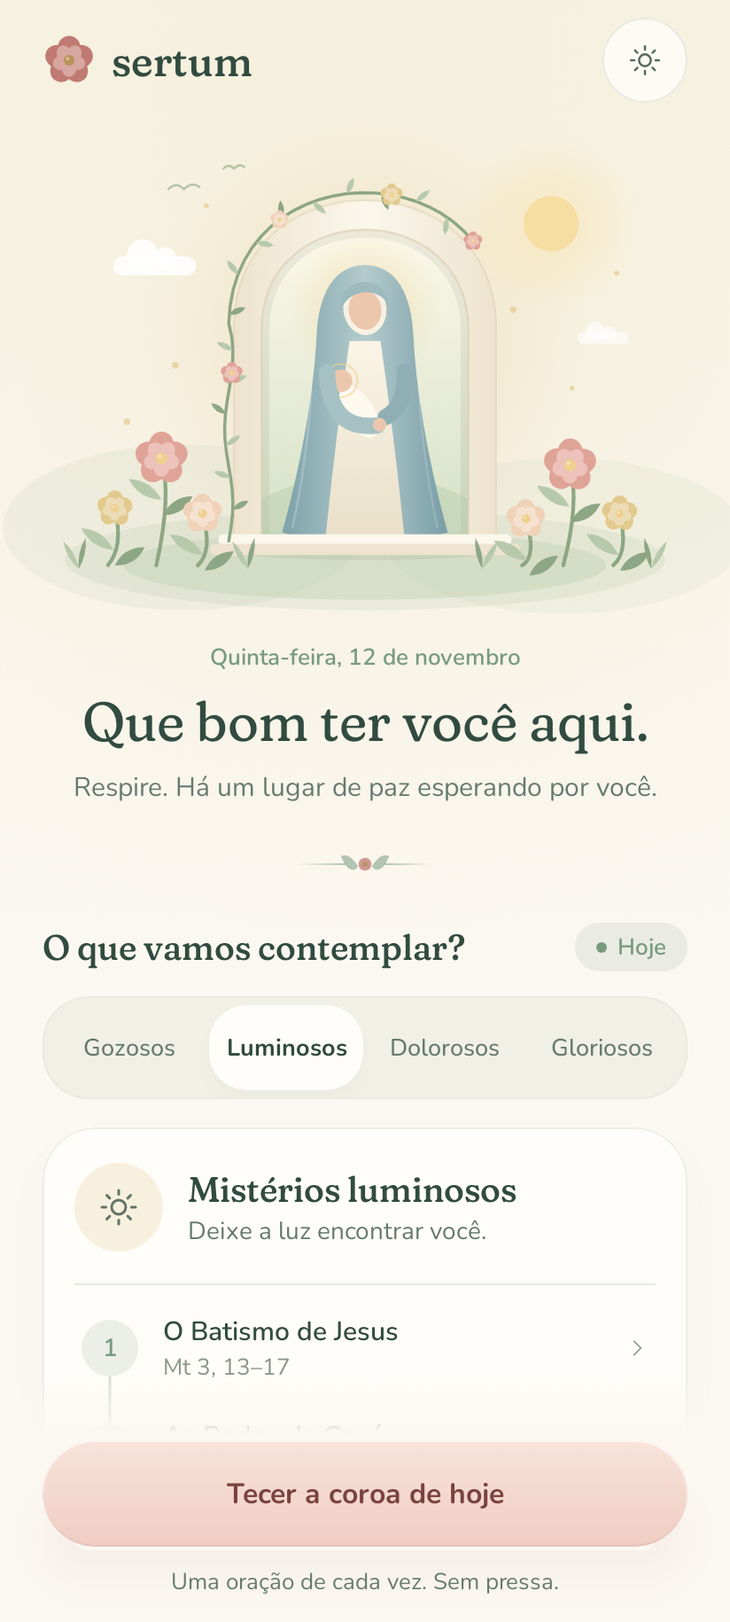
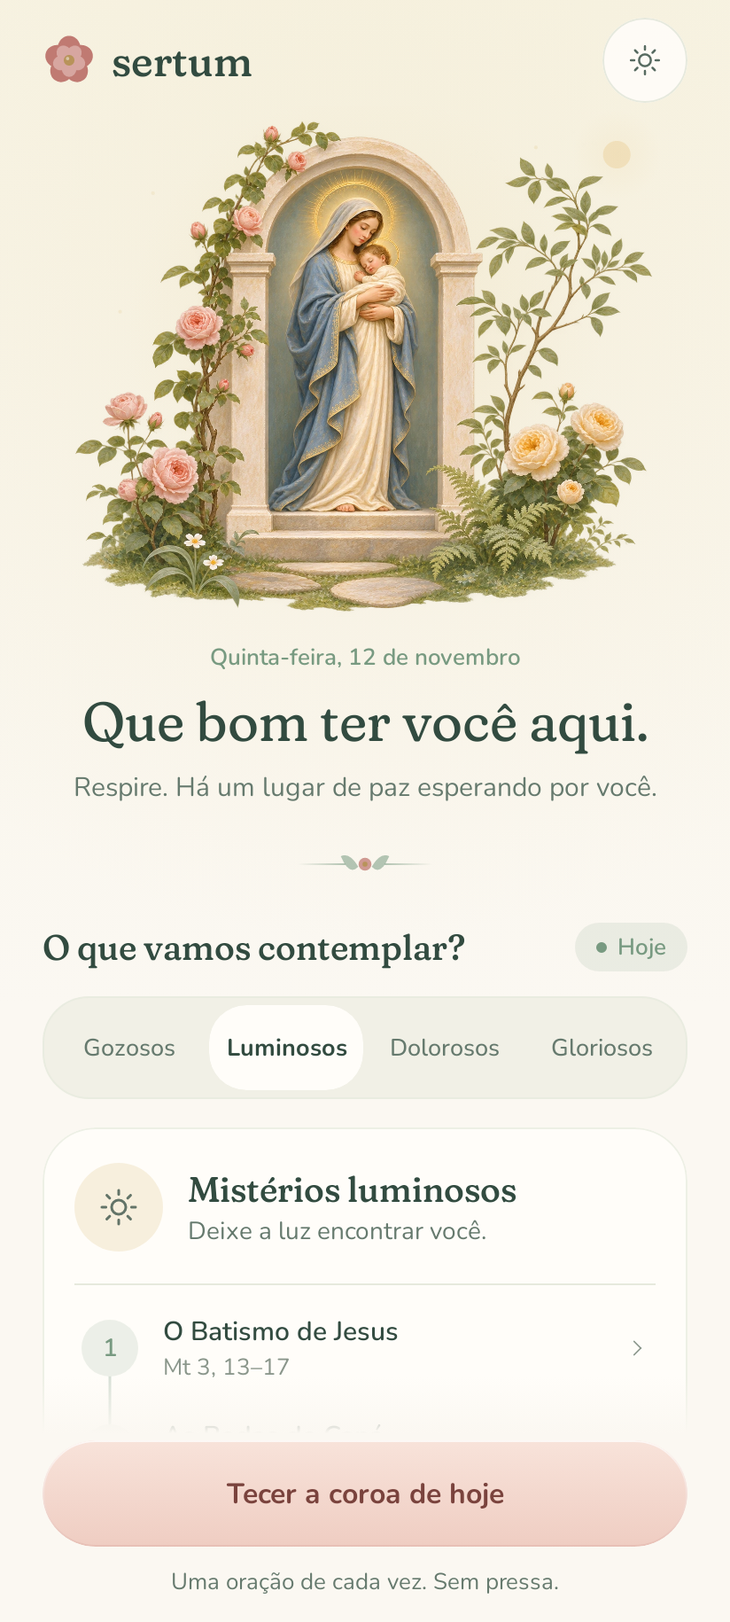
Replace sanctuary garden with classical Marian paintings

Changed region(s): [[0.091, 0.0623, 0.9102, 0.3738]]

diff --git a/app/src/main/java/com/sertumrosarum/ui/canvas/SanctuaryGarden.kt b/app/src/main/java/com/sertumrosarum/ui/canvas/SanctuaryGarden.kt
@@ -7,12 +7,15 @@ import androidx.compose.animation.core.infiniteRepeatable
 import androidx.compose.animation.core.rememberInfiniteTransition
 import androidx.compose.animation.core.tween
 import androidx.compose.foundation.Canvas
+import androidx.compose.foundation.Image
+import androidx.compose.foundation.layout.Box
+import androidx.compose.foundation.layout.fillMaxSize
+import androidx.compose.foundation.layout.padding
 import androidx.compose.runtime.Composable
 import androidx.compose.runtime.State
-import androidx.compose.runtime.remember
 import androidx.compose.runtime.mutableFloatStateOf
+import androidx.compose.runtime.remember
 import androidx.compose.ui.Modifier
-import androidx.compose.ui.geometry.CornerRadius
 import androidx.compose.ui.geometry.Offset
 import androidx.compose.ui.geometry.Rect
 import androidx.compose.ui.geometry.Size
@@ -20,22 +23,20 @@ import androidx.compose.ui.graphics.Brush
 import androidx.compose.ui.graphics.Color
 import androidx.compose.ui.graphics.Path
 import androidx.compose.ui.graphics.PathOperation
-import androidx.compose.ui.graphics.StrokeCap
 import androidx.compose.ui.graphics.drawscope.DrawScope
-import androidx.compose.ui.graphics.drawscope.Stroke
-import androidx.compose.ui.graphics.drawscope.clipPath
 import androidx.compose.ui.graphics.drawscope.rotate
 import androidx.compose.ui.graphics.drawscope.withTransform
 import androidx.compose.ui.graphics.lerp
+import androidx.compose.ui.layout.ContentScale
+import androidx.compose.ui.res.painterResource
+import androidx.compose.ui.unit.dp
+import com.sertumrosarum.R
 import com.sertumrosarum.ui.theme.SertumTheme
 import kotlin.math.PI
 import kotlin.math.min
 import kotlin.math.sin
 
-/**
- * A slow loop from 0 to 2π that drives every ambient movement in the garden.
- * It stays at rest when the person has turned animations off.
- */
+/** A shared slow loop, held still when system animations are disabled. */
 @Composable
 internal fun rememberGardenBreath(label: String, millis: Int = 9000): State<Float> {
     if (SertumTheme.reducedMotion) return remember { mutableFloatStateOf(0f) }
@@ -85,188 +86,70 @@ internal fun DrawScope.gardenLeaf(start: Offset, end: Offset, width: Float, colo
     }, color)
 }
 
-private fun cubic(t: Float, a: Offset, b: Offset, c: Offset, d: Offset): Offset {
-    val u = 1 - t
-    return a * (u * u * u) + b * (3 * u * u * t) + c * (3 * u * t * t) + d * (t * t * t)
-}
-
-/** A climbing stem that rises along the left of the arch and leans over its crown. */
-private fun vinePoint(u: Float): Offset = if (u < .42f) {
-    val rise = u / .42f
-    Offset(101f + 2.4f * sin(rise * 9f), 252f - rise * 124f)
-} else {
-    cubic((u - .42f) / .58f * .8f, Offset(101f, 128f), Offset(101f, 24f), Offset(259f, 24f), Offset(259f, 128f))
-}
-
-/** A tiny Marian garden, drawn entirely for Sertum: a sheltering arch, soft figures and living roses. */
+/**
+ * Bundled, model-generated sacred paintings with separate day and moonlit editions.
+ * Only the surrounding light and pollen move; the painted figures stay at rest.
+ * See docs/artwork/garden/README.md for the art direction and generation prompts.
+ */
 @Composable
 fun SanctuaryGarden(modifier: Modifier = Modifier) {
-    val colors = SertumTheme.colors
+    val dark = SertumTheme.colors.isDark
     val accent = SertumTheme.atmosphere.accent
-    val dark = colors.isDark
-    val breath = rememberGardenBreath("sanctuary-garden")
-    Canvas(modifier) {
-        val phase = breath.value
-        val fit = min(size.width / 360f, size.height / 300f)
-        withTransform({
-            translate((size.width - 360f * fit) / 2f, (size.height - 300f * fit) / 2f)
-            scale(fit, fit, Offset.Zero)
-        }) {
-            val sage = if (dark) Color(0xFF4B6955) else Color(0xFFB7C9AB)
-            val deepSage = if (dark) Color(0xFF6A8A6F) else Color(0xFF8DA683)
-            val stone = if (dark) Color(0xFFB9AE8C) else Color(0xFFEDE3CE)
-            val stoneLight = if (dark) Color(0xFFD8CCA9) else Color(0xFFFCF7EC)
-            val stoneShade = if (dark) Color(0xFF9E9373) else Color(0xFFDCCFB4)
-            val rose = if (dark) Color(0xFFDCA79A) else Color(0xFFE0A397)
-            val peach = if (dark) Color(0xFFE5C7A9) else Color(0xFFF0D2B8)
-            val honey = Color(0xFFEFD08D)
-            val skin = Color(0xFFEBC7AD)
-            val glow = Offset(180f, 138f)
-
-            // Air and light behind the arch. The glow ends inside the canvas: the page
-            // scrolls, and anything reaching past the top edge would be cut in a straight line.
-            drawCircle(Brush.radialGradient(listOf(accent.copy(alpha = if (dark) .2f else .34f), Color.Transparent), glow, 134f), 134f, glow)
-            if (dark) {
-                val moonCenter = Offset(288f, 66f)
-                drawCircle(Brush.radialGradient(listOf(Color(0xFFF6E8BB).copy(alpha = .22f), Color.Transparent), moonCenter, 46f), 46f, moonCenter)
-                val moon = Path().apply { addOval(Rect(moonCenter, 16f)) }
-                val bite = Path().apply { addOval(Rect(moonCenter + Offset(8f, -6f), 14f)) }
-                drawPath(Path.combine(PathOperation.Difference, moon, bite), Color(0xFFF6E8BB))
-                listOf(Offset(52f, 62f), Offset(84f, 104f), Offset(318f, 132f), Offset(246f, 34f), Offset(30f, 132f)).forEachIndexed { index, star ->
-                    drawCircle(Color(0xFFF6E8BB).copy(alpha = .35f + .3f * (.5f + .5f * sin(phase * 2f + index * 1.7f))), if (index % 2 == 0) 1.5f else 1.1f, star)
-                }
-            } else {
-                val sun = Offset(288f, 68f)
-                drawCircle(Brush.radialGradient(listOf(Color(0xFFF7E3AE).copy(alpha = .6f), Color.Transparent), sun, 52f), 52f, sun)
-                drawCircle(Color(0xFFF6DDA2), 16f, sun)
-                fun cloud(x: Float, y: Float, scale: Float, alpha: Float) {
-                    val white = Color.White.copy(alpha = alpha)
-                    drawRoundRect(white, Offset(x - 24f * scale, y - 5f * scale), Size(48f * scale, 11f * scale), CornerRadius(5.5f * scale))
-                    drawCircle(white, 9f * scale, Offset(x - 7f * scale, y - 6f * scale))
-                    drawCircle(white, 6.5f * scale, Offset(x + 6f * scale, y - 4f * scale))
-                }
-                cloud(58f + 3f * sin(phase), 92f, 1f, .85f)
-                cloud(318f - 2f * sin(phase), 134f, .62f, .6f)
-            }
-
-            // Far hills and the sheltered lawn.
-            drawOval(sage.copy(alpha = .16f), Offset(-30f, 196f), Size(210f, 96f))
-            drawOval(sage.copy(alpha = .13f), Offset(190f, 204f), Size(210f, 90f))
-            drawOval(sage.copy(alpha = .22f), Offset(6f, 234f), Size(348f, 58f))
-            drawOval(sage.copy(alpha = .34f), Offset(40f, 246f), Size(280f, 40f))
-            drawOval(Color.Black.copy(alpha = if (dark) .14f else .05f), Offset(96f, 250f), Size(168f, 13f))
-
-            // The ceramic arch and its niche.
-            val arch = Path().apply {
-                moveTo(104f, 252f); lineTo(104f, 128f)
-                cubicTo(104f, 30f, 256f, 30f, 256f, 128f)
-                lineTo(256f, 252f); close()
-            }
-            drawPath(arch, Brush.horizontalGradient(listOf(stone, stoneLight, stone), 104f, 256f))
-            drawPath(arch, stoneShade.copy(alpha = .55f), style = Stroke(1f))
-            val niche = Path().apply {
-                moveTo(120f, 252f); lineTo(120f, 130f)
-                cubicTo(120f, 52f, 240f, 52f, 240f, 130f)
-                lineTo(240f, 252f); close()
-            }
-            drawPath(niche, Brush.verticalGradient(listOf(if (dark) Color(0xFF587460) else Color(0xFFFCF8E9), if (dark) Color(0xFF36513F) else Color(0xFFD5E1C6)), 70f, 252f))
-            clipPath(niche) {
-                drawPath(niche, Color.Black.copy(alpha = if (dark) .16f else .06f), style = Stroke(9f))
-                drawOval(sage.copy(alpha = .45f), Offset(100f, 214f), Size(160f, 80f))
-
-                val halo = Offset(180f, 117f)
-                val warmth = .5f + .5f * sin(phase)
-                drawCircle(Brush.radialGradient(listOf(honey.copy(alpha = .42f + .16f * warmth), Color.Transparent), halo, 44f), 44f, halo)
-                drawCircle(honey.copy(alpha = .85f), 22.5f, halo, style = Stroke(1.1f))
-
-                // Quiet, faceless silhouettes of Mary holding the Child.
-                val mantle = Path().apply {
-                    moveTo(180f, 92f)
-                    cubicTo(161f, 92f, 153f, 111f, 152f, 132f)
-                    cubicTo(150f, 172f, 141f, 214f, 132f, 247f)
-                    quadraticTo(180f, 262f, 228f, 247f)
-                    cubicTo(219f, 214f, 210f, 172f, 208f, 132f)
-                    cubicTo(207f, 111f, 199f, 92f, 180f, 92f)
-                }
-                drawPath(mantle, Brush.horizontalGradient(listOf(Color(0xFF7FA3AB), Color(0xFFB3CBCC), Color(0xFF7B9FA8)), 134f, 226f))
-                val robe = Path().apply {
-                    moveTo(171f, 136f); quadraticTo(163f, 192f, 157f, 251f)
-                    quadraticTo(180f, 258f, 203f, 251f)
-                    quadraticTo(197f, 192f, 189f, 136f); close()
-                }
-                drawPath(robe, Brush.verticalGradient(listOf(Color(0xFFFAF4E6), Color(0xFFE9DFC8)), 136f, 252f))
-                drawPath(Path().apply { moveTo(149f, 164f); quadraticTo(146f, 208f, 138f, 244f) }, Color.White.copy(alpha = .2f), style = Stroke(1.4f, cap = StrokeCap.Round))
-                drawPath(Path().apply { moveTo(211f, 164f); quadraticTo(214f, 208f, 222f, 244f) }, Color.White.copy(alpha = .14f), style = Stroke(1.4f, cap = StrokeCap.Round))
-                rotate(-7f, Offset(180f, 118f)) {
-                    drawOval(Color(0xFFF8F1E3), Offset(167.5f, 102.5f), Size(25f, 30f))
-                    drawOval(skin, Offset(170.5f, 106.5f), Size(19f, 23f))
-                    drawPath(Path().apply {
-                        moveTo(165.5f, 119f); cubicTo(164f, 96f, 196f, 96f, 194.5f, 119f)
-                        cubicTo(191f, 104f, 169f, 104f, 165.5f, 119f)
-                    }, Color(0xFF9DBBBF))
-                }
-                drawPath(Path().apply { moveTo(203f, 154f); quadraticTo(204f, 174f, 192f, 180f) }, Color(0xFF8FAFB4), style = Stroke(9.5f, cap = StrokeCap.Round))
-                rotate(-32f, Offset(176f, 176f)) {
-                    drawOval(Color(0xFFFDF9EF), Offset(167.5f, 160f), Size(17f, 34f))
-                }
-                drawCircle(honey.copy(alpha = .7f), 9.6f, Offset(166f, 159f), style = Stroke(.9f))
-                drawCircle(skin, 6.6f, Offset(166f, 159f))
-                drawPath(Path().apply { moveTo(158f, 154f); quadraticTo(159f, 188f, 187f, 185f) }, Color(0xFFA6C1C3), style = Stroke(9.5f, cap = StrokeCap.Round))
-                drawCircle(skin, 3.9f, Offset(188.5f, 184.5f))
-            }
-            drawPath(niche, stoneShade.copy(alpha = .7f), style = Stroke(1.1f))
-            drawRoundRect(stoneLight, Offset(95f, 248f), Size(170f, 6.5f), CornerRadius(3.2f))
-            drawRoundRect(stone, Offset(90f, 253.5f), Size(180f, 6.5f), CornerRadius(3.2f))
-
-            // The vine that crowns the arch.
-            val vine = Path()
-            repeat(41) { index ->
-                val point = vinePoint(index / 40f)
-                if (index == 0) vine.moveTo(point.x, point.y) else vine.lineTo(point.x, point.y)
-            }
-            drawPath(vine, deepSage, style = Stroke(1.8f, cap = StrokeCap.Round))
-            repeat(15) { index ->
-                val u = (index + 1) / 16f
-                val point = vinePoint(u)
-                val ahead = vinePoint(u + .012f) - point
-                val along = ahead / ahead.getDistance().coerceAtLeast(.01f)
-                val side = Offset(-along.y, along.x) * (if (index % 2 == 0) 1f else -1f)
-                gardenLeaf(point, point + side * 9f + along * 5f, 3.4f, if (index % 3 == 0) deepSage else sage)
-            }
-            listOf(Triple(.33f, 6.5f, rose), Triple(.62f, 5.4f, peach), Triple(.83f, 6.6f, accent), Triple(1f, 5.6f, rose)).forEach { (u, radius, color) ->
-                drawGardenFlower(vinePoint(u), radius, color, honey)
-            }
-
-            // Roses sway a little, each in its own time.
-            fun gardenRose(x: Float, y: Float, radius: Float, color: Color, turn: Float) {
-                rotate(1.7f * sin(phase + turn), Offset(x, 264f)) {
-                    drawPath(Path().apply { moveTo(x - 3f, 266f); quadraticTo(x + 6f, y + 22f, x, y) }, deepSage, style = Stroke(2.2f, cap = StrokeCap.Round))
-                    gardenLeaf(Offset(x, y + 24f), Offset(x - 19f, y + 12f), 6.5f, sage)
-                    gardenLeaf(Offset(x + 1f, y + 33f), Offset(x + 18f, y + 22f), 6.5f, deepSage)
-                    drawGardenFlower(Offset(x, y), radius, color, honey)
+    val breath = rememberGardenBreath("sanctuary-garden", millis = 12000)
+    Box(modifier) {
+        Canvas(Modifier.matchParentSize()) {
+            inGardenSpace {
+                val warmth = .5f + .5f * sin(breath.value)
+                val light = Offset(180f, 130f)
+                drawCircle(
+                    Brush.radialGradient(
+                        listOf(accent.copy(alpha = (if (dark) .10f else .14f) + .025f * warmth), Color.Transparent),
+                        light, 138f,
+                    ), 138f, light,
+                )
+                val skyLight = Offset(326f, 28f)
+                val honey = if (dark) Color(0xFFF1DEAD) else Color(0xFFEBD29D)
+                drawCircle(
+                    Brush.radialGradient(listOf(honey.copy(alpha = if (dark) .10f else .16f), Color.Transparent), skyLight, 26f),
+                    26f, skyLight,
+                )
+                if (dark) {
+                    val moon = Path().apply { addOval(Rect(skyLight, 9f)) }
+                    val bite = Path().apply { addOval(Rect(skyLight + Offset(4f, -3f), 8f)) }
+                    drawPath(Path.combine(PathOperation.Difference, moon, bite), honey.copy(alpha = .8f))
+                } else {
+                    drawCircle(honey.copy(alpha = .5f), 8f, skyLight)
                 }
             }
-            gardenRose(62f, 204f, 15.5f, rose, 0f)
-            gardenRose(34f, 233f, 10.5f, accent, 1.9f)
-            gardenRose(86f, 236f, 11.5f, peach, 3.4f)
-            gardenRose(298f, 208f, 15.5f, rose, 2.6f)
-            gardenRose(327f, 236f, 10.5f, accent, .8f)
-            gardenRose(274f, 239f, 11.5f, peach, 4.4f)
-            listOf(14f to -1f, 112f to -1f, 248f to 1f, 346f to 1f).forEach { (x, lean) ->
-                gardenLeaf(Offset(x, 268f), Offset(x + lean * 9f, 252f), 3.4f, sage)
-                gardenLeaf(Offset(x, 268f), Offset(x - lean * 4f, 250f), 3f, deepSage)
+        }
+        Image(
+            painter = painterResource(if (dark) R.drawable.sanctuary_garden_vigil else R.drawable.sanctuary_garden_day),
+            contentDescription = null,
+            modifier = Modifier.fillMaxSize().padding(4.dp),
+            contentScale = ContentScale.Fit,
+        )
+        Canvas(Modifier.matchParentSize()) {
+            inGardenSpace {
+                val phase = breath.value
+                // Sparse light at the edges, leaving the faces and hands clear.
+                listOf(Offset(38f, 119f), Offset(298f, 104f), Offset(56f, 49f), Offset(320f, 183f), Offset(280f, 26f)).forEachIndexed { index, mote ->
+                    val shimmer = .5f + .5f * sin(phase + index * 1.7f)
+                    drawCircle(
+                        (if (dark) Color(0xFFF1DEAD) else accent).copy(alpha = (if (dark) .22f else .16f) + .12f * shimmer),
+                        if (index % 2 == 0) 1.1f else .8f,
+                        mote + Offset(1.2f * sin(phase + index), 2.5f * sin(phase + index * 1.3f)),
+                    )
+                }
             }
-
-            // Pollen in the light, and two birds far away.
-            listOf(Offset(70f, 150f), Offset(300f, 160f), Offset(266f, 116f), Offset(88f, 60f), Offset(42f, 186f), Offset(326f, 96f)).forEachIndexed { index, mote ->
-                drawCircle(accent.copy(alpha = if (dark) .8f else .7f), if (index % 2 == 0) 1.9f else 1.4f, mote + Offset(0f, 3.5f * sin(phase + index * 1.3f)))
-            }
-            fun bird(x: Float, y: Float, span: Float) = drawPath(
-                Path().apply { moveTo(x, y); quadraticTo(x + span * .5f, y - span * .5f, x + span, y); quadraticTo(x + span * 1.5f, y - span * .5f, x + span * 2f, y - span * .15f) },
-                deepSage.copy(alpha = .6f), style = Stroke(1.3f, cap = StrokeCap.Round),
-            )
-            bird(66f, 48f, 9f)
-            bird(98f, 36f, 6f)
         }
     }
+}
+
+/** Fit the atmosphere to the same 6:5 composition on narrow phones and wide layouts. */
+private fun DrawScope.inGardenSpace(draw: DrawScope.() -> Unit) {
+    val fit = min(size.width / 360f, size.height / 300f)
+    withTransform({
+        translate((size.width - 360f * fit) / 2f, (size.height - 300f * fit) / 2f)
+        scale(fit, fit, Offset.Zero)
+    }, draw)
 }

diff --git a/docs/artwork/garden/README.md b/docs/artwork/garden/README.md
@@ -1,0 +1,39 @@
+# The Marian garden
+
+The home-screen garden uses original model-generated sacred paintings, made with the image generation tool and bundled with the app. The final direction follows the user's preferred classical painted garden: the serene dignity of Raphael's Madonnas and the gentle radiance of Murillo, with soft botanical surroundings. These are new illustrations, not reproductions of an existing painting.
+
+Mary and the Child are the focus. Naturalistic faces, a tender embrace, flowing Marian blue and ivory, narrow gold embroidery, and a radiant nimbus convey holiness and grace. The climbing roses, slender branch, ferns, and stone path give the figures a sheltered garden without competing with them.
+
+## Final artwork and prompts
+
+- [Day master](masters/day.png) — the full-resolution transparent PNG, 1374 × 1145.
+- [Vigil master](masters/vigil.png) — the matching moonlit edit, preserving the same figures, anatomy, flowers, and composition.
+- [Day generation prompt](day-prompt.txt).
+- [Vigil editing prompt](vigil-prompt.txt).
+- [All seven generation rounds](prompts.json), including the reference relationship between edits.
+
+For future revisions, use the day master as the image-editing reference and keep the faces, hands, pose, architecture, and garden silhouette consistent. Derive Vigil from the selected daytime image instead of generating a separate scene. The original day prompt refers to the classical garden from round 02 and the user's attached preview of that same candidate; the final master is the reference to use going forward. Prompts record the actual requests, not a promise of identical output from a new generation.
+
+## What the exploration established
+
+| Round | Direction | Finding |
+| --- | --- | --- |
+| 01 | Close watercolor Madonna and roses | Tender, but the portrait and dense flowers dominated the garden. |
+| 02 | Full-length classical Madonna in an airy garden | The user's preferred composition and naturalistic painted treatment. |
+| 03–05 | Simplified contemporary gouache, refined day and Vigil | Clear at small sizes, but the user preferred the sacred presence of the classical version. |
+| 06 | Classical garden with more luminous sacred figures | Selected day: serene face, sculptural blue mantle, fine gold embroidery and radiant halo. |
+| 07 | Moonlit edit of round 06 | Selected Vigil: deeper sage foliage and stone, with warm light retained on the holy figures. |
+
+## App integration
+
+The runtime assets are [day](../../../app/src/main/res/drawable-nodpi/sanctuary_garden_day.webp) and [Vigil](../../../app/src/main/res/drawable-nodpi/sanctuary_garden_vigil.webp). They retain the masters' dimensions and alpha transparency and are encoded as WebP at quality 92. Together they add about 1.1 MB of image resources; the full-resolution PNG masters stay in documentation and are not packaged in the APK. No runtime generation or network access is needed.
+
+`SanctuaryGarden` fits the complete image without cropping, with a small protective inset. Sparse animated pollen, a soft mystery-colored light, and the sun or crescent remain in Compose Canvas. The painted figures stay still. Ambient animation respects the existing system animation setting. The painting's rose colors remain constant; the page wash and surrounding light respond to the selected mystery.
+
+The prayer beads, mystery stem, and delivered crown remain the app's custom Canvas artwork.
+
+## Preview provenance
+
+The updated sanctuary screenshots in `docs/screenshots` are rendered from the actual Android Compose screen with Robolectric native graphics at 412 × 915 dp and 2× density. They are not photographs or emulator captures. A temporary review harness checks both appearances, all four mystery selections, and entry into prayer at that size, plus both appearances and entry into prayer at 320 × 640 dp. It is kept outside the application source and introduces no runtime or project dependencies.
+
+The standard project verification passes: `assembleDebug`, all 19 JVM unit tests, `compileDebugAndroidTestKotlin`, and `lintDebug`. Lint reports 30 dependency-update warnings and no errors. The full instrumented device suite was not run; no device or emulator is attached to this environment.

diff --git a/docs/design-system.md b/docs/design-system.md
@@ -6,7 +6,7 @@ The experience should feel welcoming, familiar, and unhurried. The garden is par
 
 ## Visual language
 
-- Original Canvas artwork shows a small ceramic arch crowned by a climbing vine, Mary holding the Child, a sheltered lawn, swaying roses, drifting pollen, and changing daylight.
+- The home garden is a bundled, model-generated sacred painting: an ivory arch, climbing roses, Mary holding the Child, and a stone path. Classical naturalistic faces, a flowing blue mantle, fine gold embroidery, and a radiant halo convey Mary's holiness and grace. Matching day and moonlit paintings share the same composition. Canvas adds restrained moving light and pollen; the painted figures stay still. The [artwork notes, masters, and prompts](artwork/garden/README.md) preserve the chosen direction.
 - Bundled **Fraunces** is the voice of the garden. Its softness axis is fully open, so every serif ends rounded. It sets the wordmark, headings, and every prayer. **Nunito** carries controls and small supporting copy.
 - Type is sentence case, with generous line spacing. Headings are regular weight, never bold.
 - Surfaces are soft, generously rounded, and edged with a hairline in place of a heavy shadow. Shadows are tinted sage or rose, never grey.
@@ -32,7 +32,7 @@ The experience should feel welcoming, familiar, and unhurried. The garden is par
 | Botanical accent | `#789A81` | `#9DBE9D` |
 | Soft border | `#E6E9DD` | `#314D40` |
 
-Mystery atmospheres gently wash the top of the page and tint the garden's flowers: peach for Gozosos, honey for Luminosos, lavender for Dolorosos, and soft sky for Gloriosos. The selected mystery set always retains its correct five mysteries and day-of-week resolution.
+Mystery atmospheres gently wash the top of the page and the light around the garden: peach for Gozosos, honey for Luminosos, lavender for Dolorosos, and soft sky for Gloriosos. The painting retains its original rose colors. The selected mystery set always retains its correct five mysteries and day-of-week resolution.
 
 ## Typography and shape
 
@@ -70,7 +70,7 @@ A crown of fifty roses woven with leaves surrounds a large central blossom. The 
 
 ## Motion, haptics, and accessibility
 
-- The garden moves on one slow breath: roses sway, pollen drifts, the halo warms. Active roses breathe slowly; completed roses bloom with a damped spring.
+- The home garden's surrounding light and pollen move on one slow breath; the sacred painting stays at rest. Active prayer roses breathe slowly; completed roses bloom with a damped spring.
 - Ambient motion stays still when system animations are turned off.
 - Prayer routes crossfade; buttons gently compress on press.
 - Small beads use a soft single pulse. Prayer and decade boundaries use two pulses; completion uses three growing pulses.

diff --git a/README.md b/README.md
@@ -30,7 +30,7 @@ Open Sertum and arrive in a small garden: warm cream, sage leaves, clay-colored 
 
 ## A garden in every screen
 
-These are captures from the running Android app. Every illustration, flower, bead, icon, and control is drawn or composed specifically for Sertum.
+The sanctuary previews are rendered from the Android Compose screen using Robolectric native graphics. Its model-generated sacred paintings are bundled with the app; the flowers, beads, icons, and controls elsewhere use custom Canvas and Foundation components.
 
 <table>
   <tr>
@@ -113,7 +113,7 @@ The visual system is **O Jardim de Maria**: a comforting place of shelter, with 
 
 | Element | How it is made |
 | --- | --- |
-| The garden | Original Compose Canvas artwork: ceramic arch and climbing vine, Mary and the Child, swaying roses, sun, and moon |
+| The garden | Bundled model-generated sacred paintings for day and Vigil: Mary and the Child, a rose-covered arch and stone path, with Canvas light and pollen |
 | Living beads | Custom soft roses, closed buds that open as you pray, a growing stem, breathing halos, and spring animations |
 | Typography | Bundled Fraunces (soft serif, for the wordmark and prayers) and Nunito (controls), with explicit variable-font axes |
 | Day | Warm cream `#FBF8F2`, sage `#789A81`, rose `#C07A72`, and blush petal actions |
@@ -253,7 +253,7 @@ See [`phases.md`](phases.md) for the milestone definitions and acceptance criter
 
 ### Artwork and font credits
 
-The Marian garden, flowers, rosary visualizations, launcher icon, and interface icons are original vector and Canvas artwork for Sertum. Fraunces and Nunito are bundled from Google Fonts under their [SIL Open Font Licenses](docs/fonts).
+The home garden uses original model-generated sacred paintings, inspired by the grace and light of classical Marian art. [Full-resolution masters, final prompts, and the seven-round exploration](docs/artwork/garden/README.md) are preserved with the project. Prayer flowers, rosary visualizations, the launcher icon, and interface icons are custom vector and Canvas artwork for Sertum. Fraunces and Nunito are bundled from Google Fonts under their [SIL Open Font Licenses](docs/fonts).
 
 ---
 
